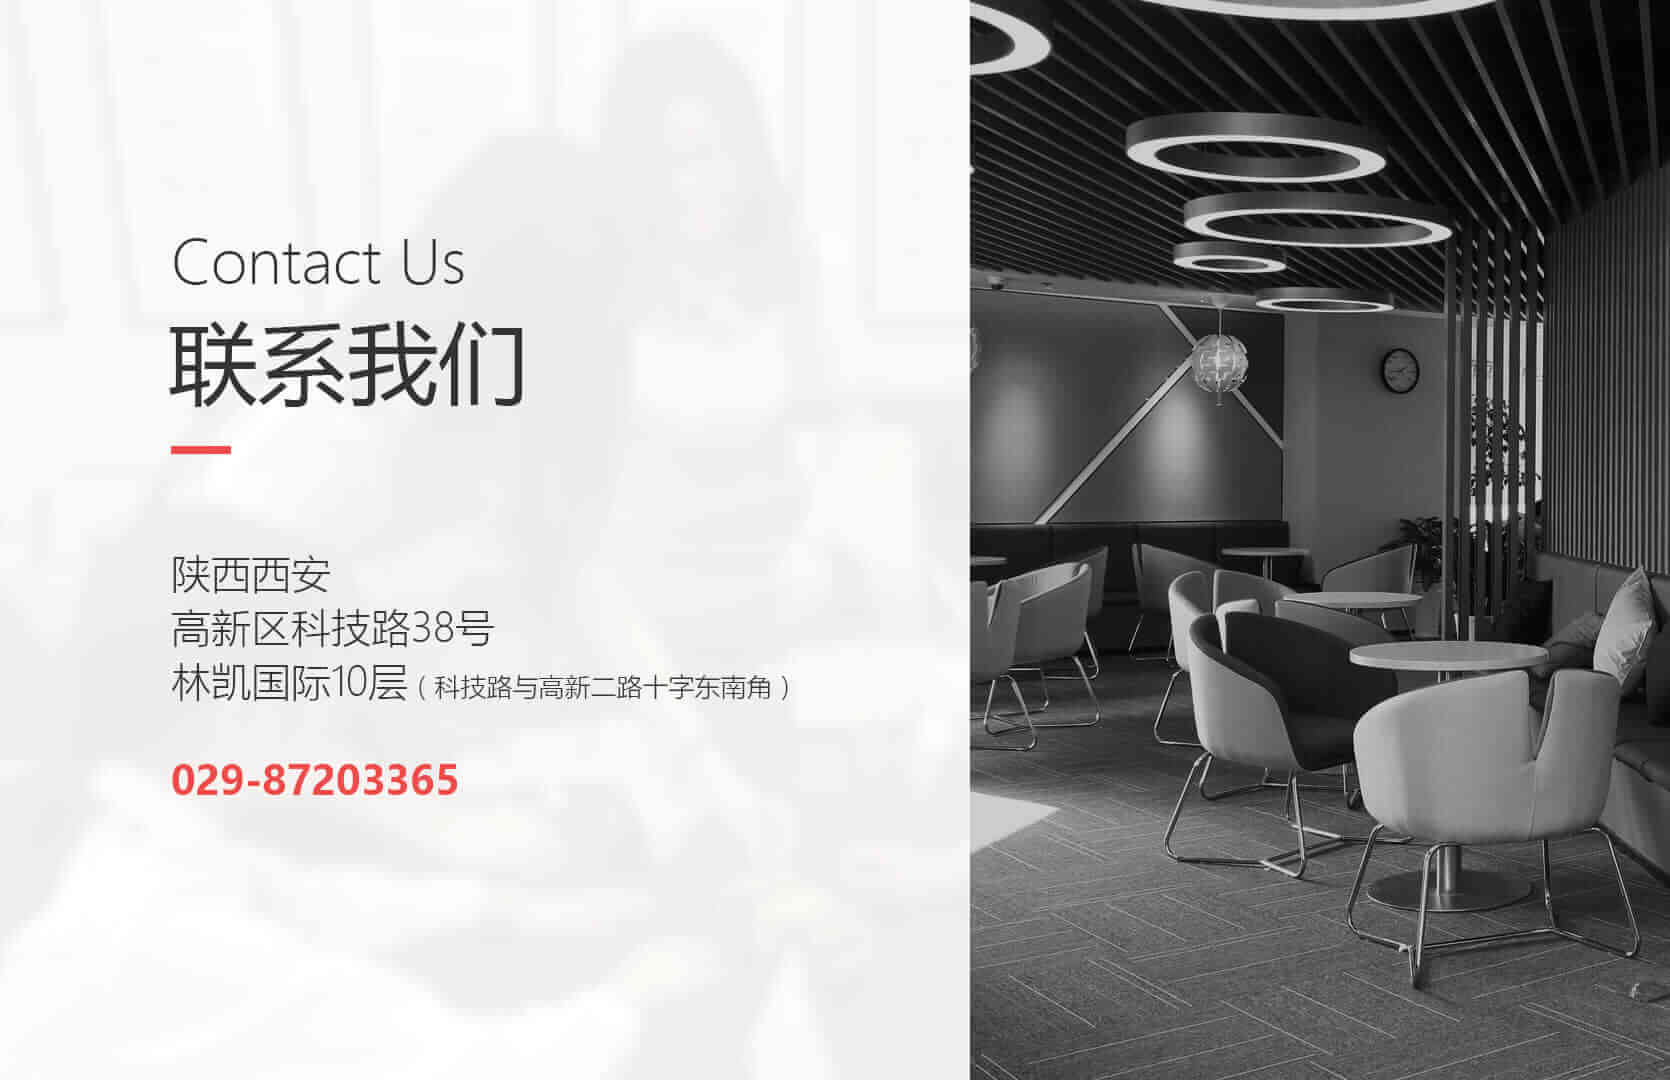
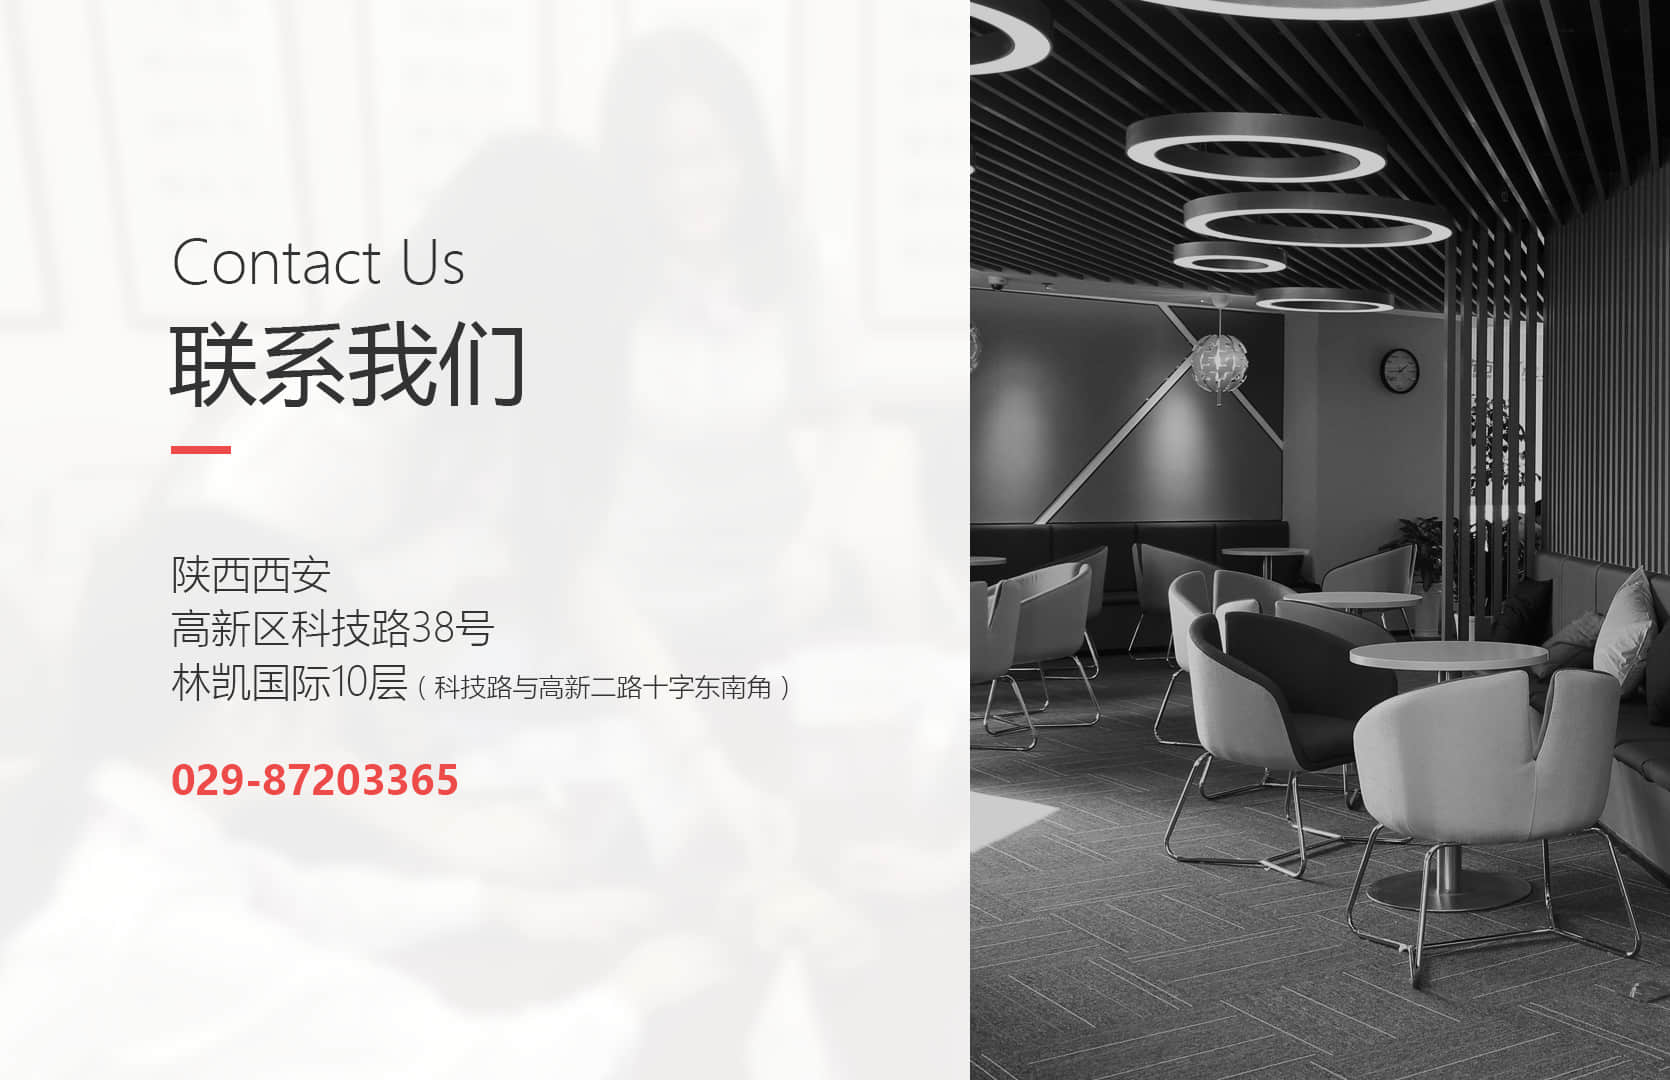
添加了清晰图片

diff --git a/css/index.css b/css/index.css
@@ -280,8 +280,8 @@ aside>ul{
     height: 100%;
     /*overflow-y:auto*/
     background-image: url(../images/志领计划5.jpg);
-    -webkit-background-size: 88% 100%;
-    background-size: 88% 100%;
+    -webkit-background-size: 100% 125%;
+    background-size: 100% 125%;
     background-repeat:no-repeat;
     background-position: 192px 0;
 }
